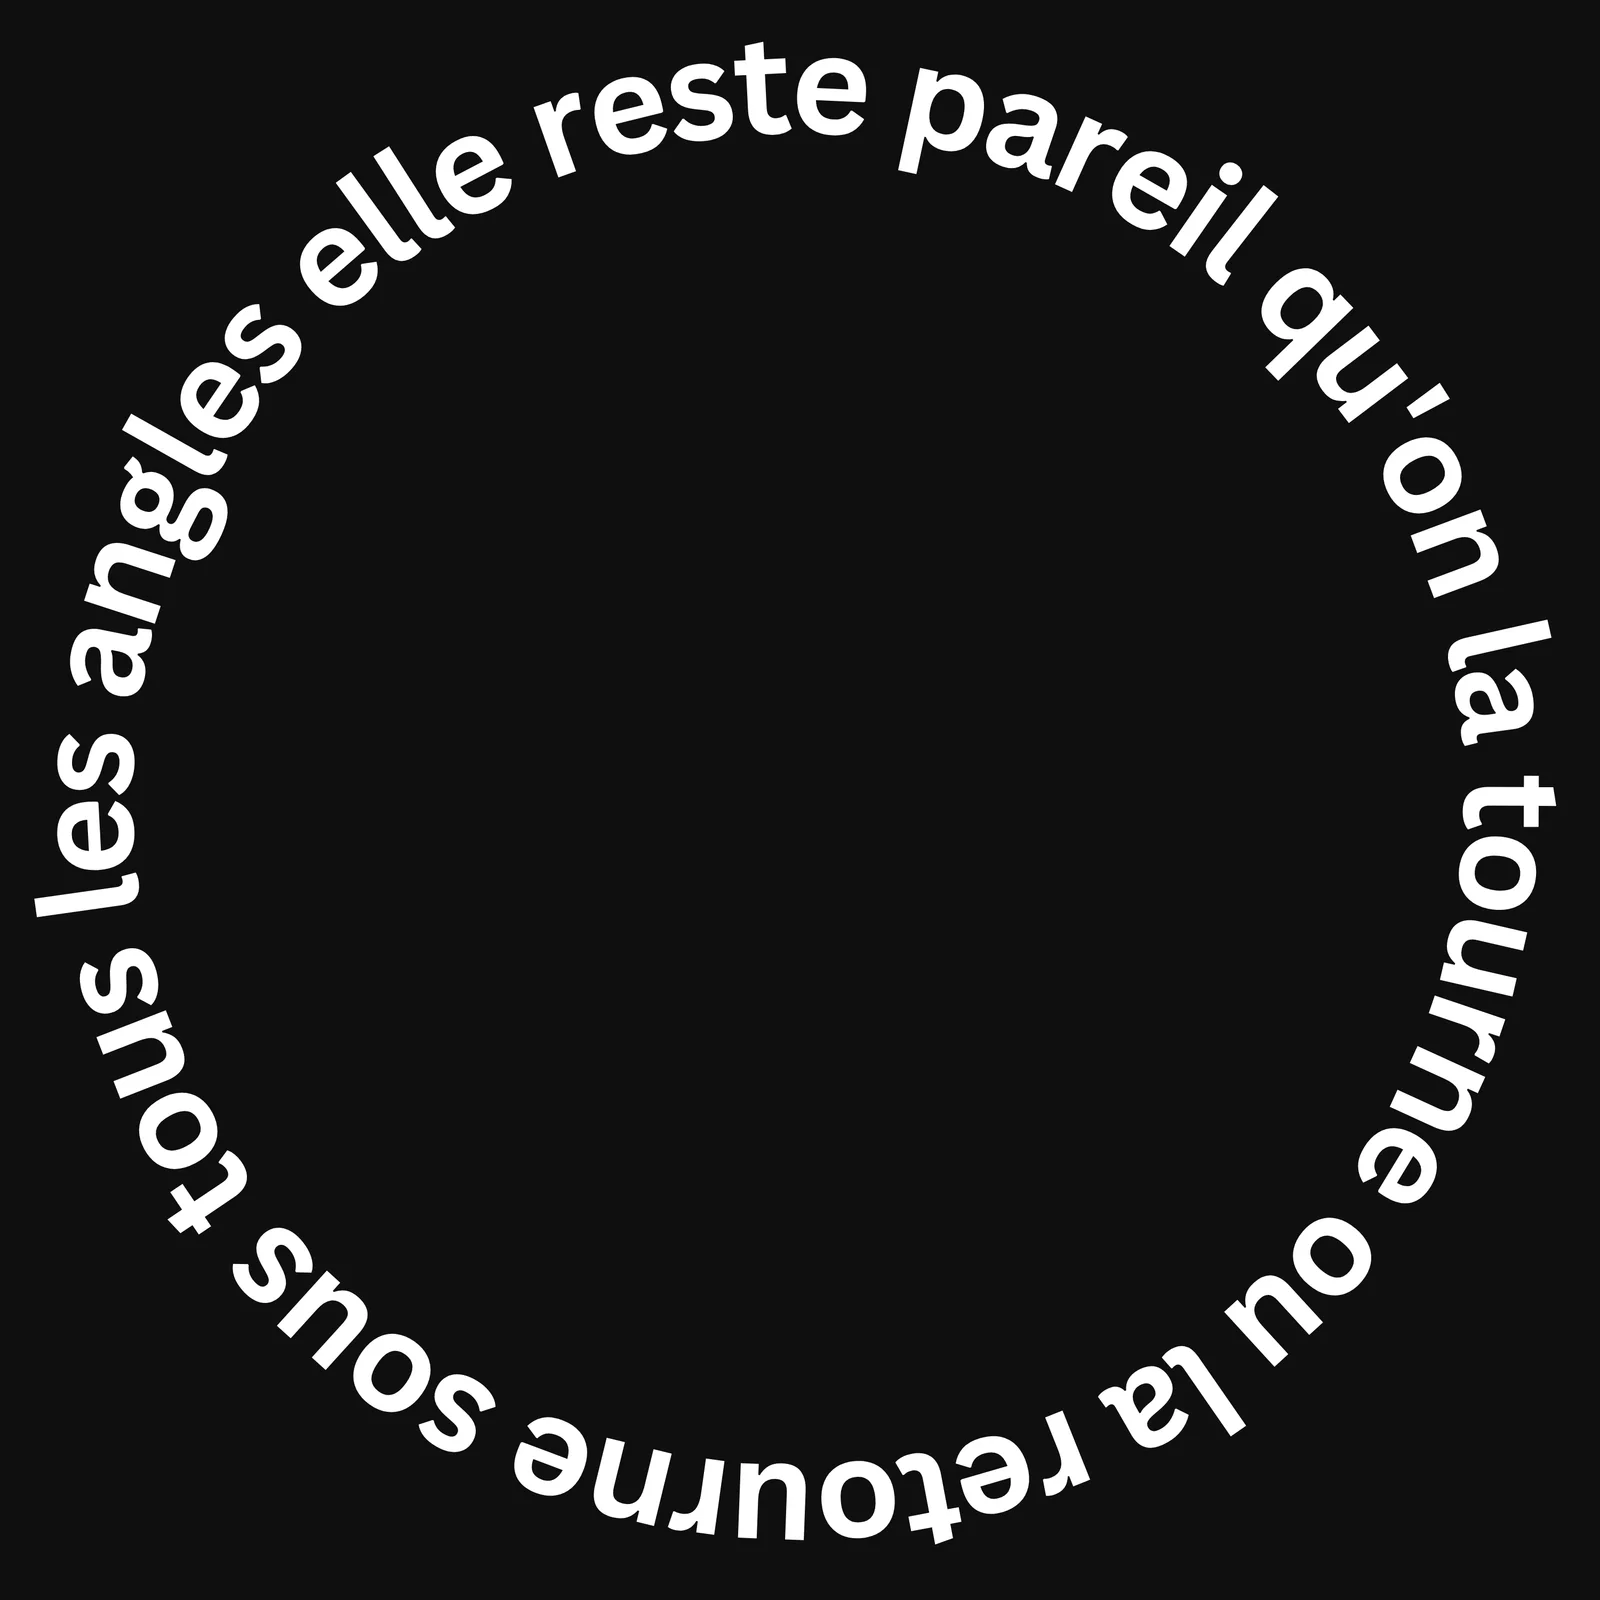
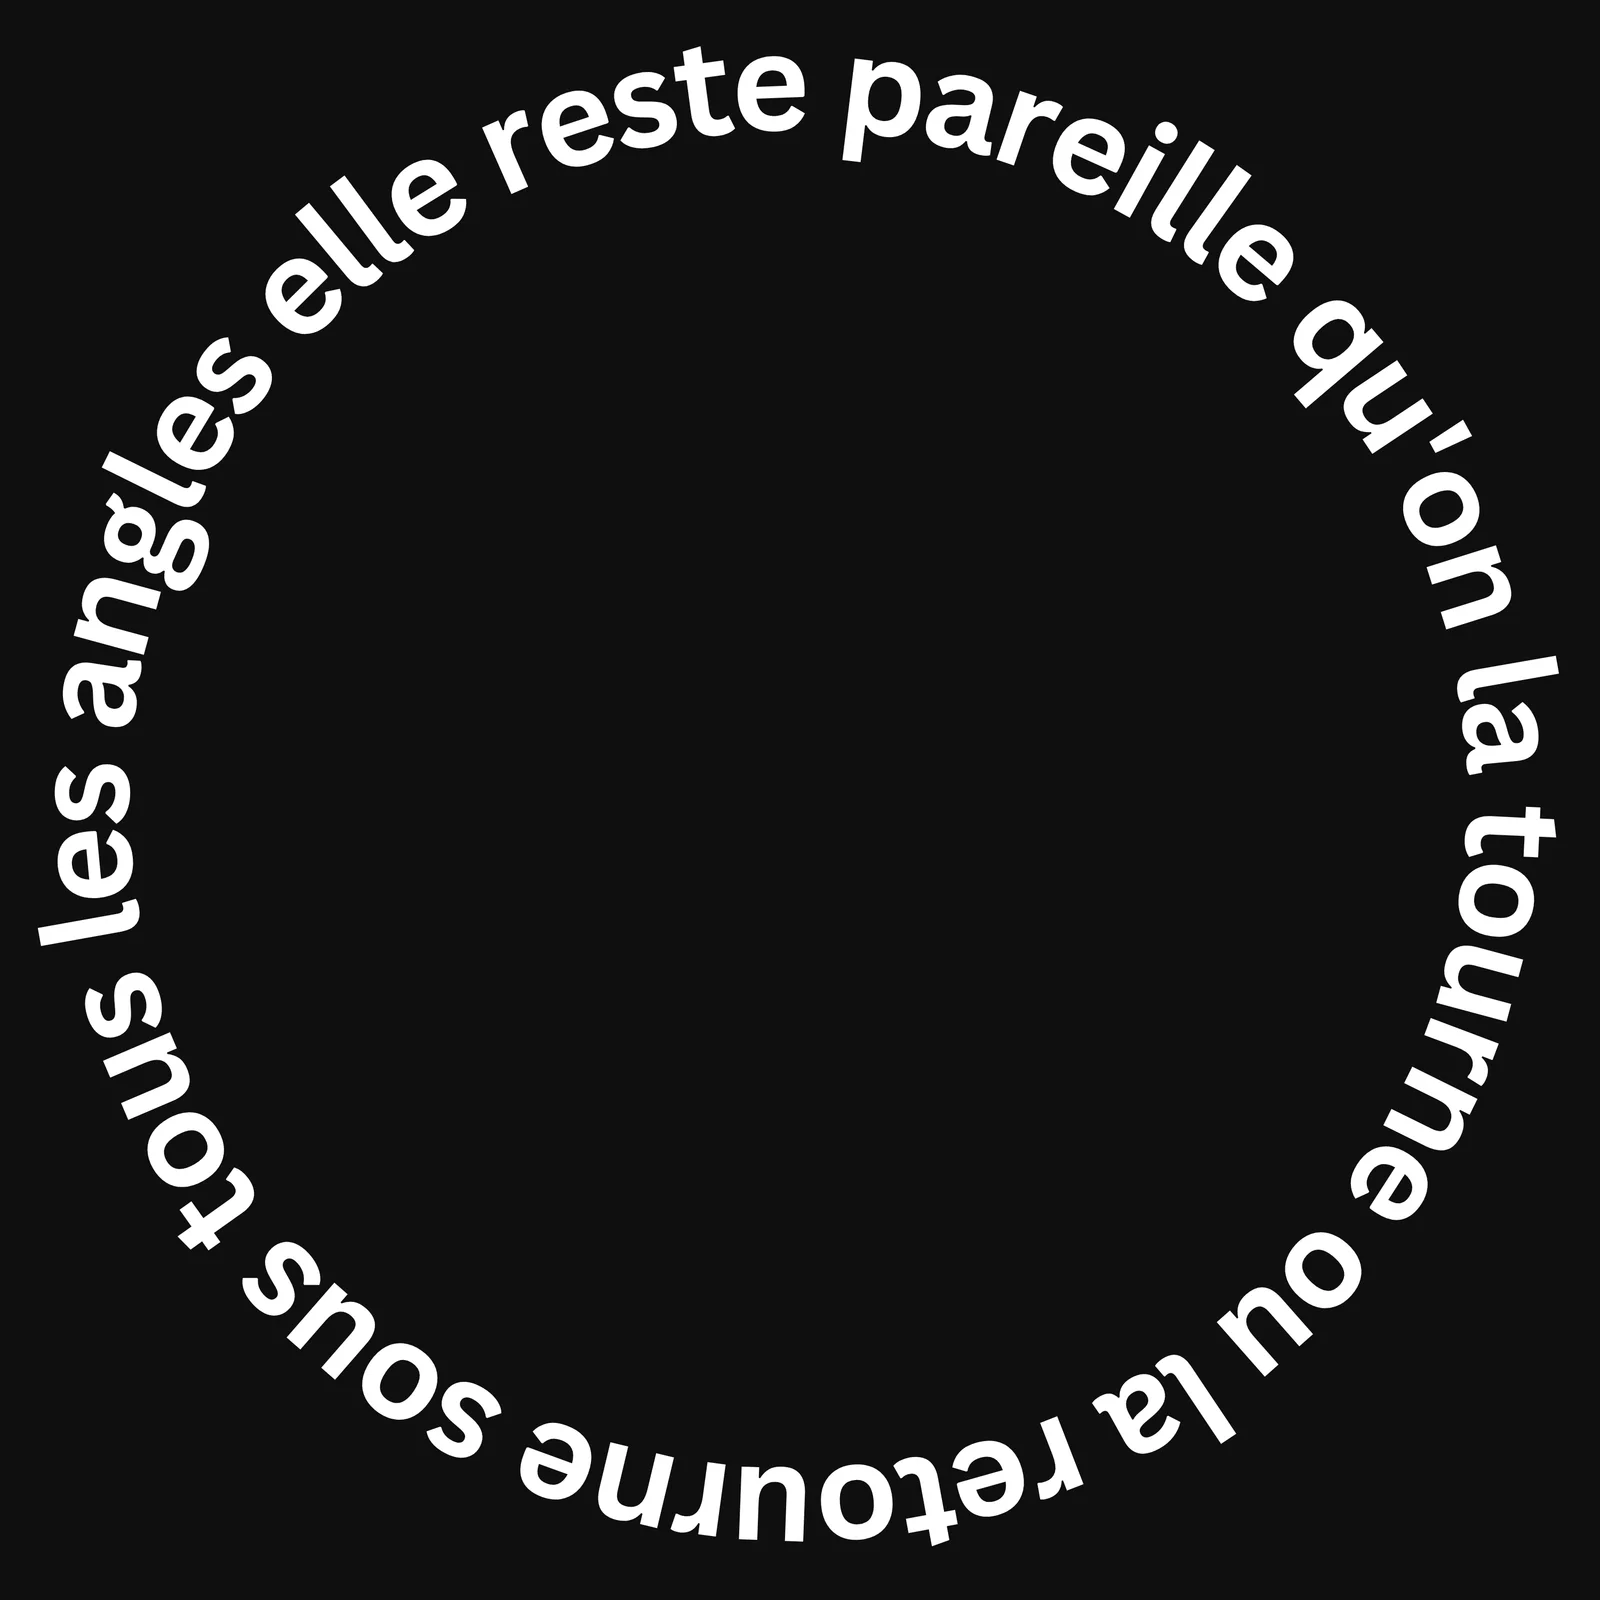
Corrections to poems
Corrected a spelling mistake in the french U1 poem, changed the fusion poem, its translation, its image and the translator

Changed region(s): [[0.0, 0.0312, 0.9688, 0.9688], [0.5, 0.9375, 0.5312, 0.9688]]

diff --git a/js/db.js b/js/db.js
@@ -766,55 +766,75 @@ De son tunnel, il avait agité sa main
 Pour qu’elle le rejoigne au lendemain 
 Electron libre perdu dans un brouillard sans aile 
 Sans phare pour percer un trou du ciel 
-Il avait ancré son cœur et magnétisé 
-D’une flèche toute la mer illuminée 
 
+Du bord au large le plasma mirage traversa
+
+Il avait ancré son cœur magnétique de verre
+D’une flèche illuminée toute la mer
 A la dérive pour un arc-en-ciel ionisé 
+D’électrochocs à l’âme l’effraction pénétrée 
+
+Céleste solaire au récif terre émergea 
 
 L’accès par la passe en S au contour des flots
 Siffla sur son vaisseau
-La collision nucléaire, la fission du mat
+La collision chaleur à la fission du mat
 D’une voix le brisa
 
-Céleste solaire au récif terre émergea
+Céleste solaire au nadir rouge s’envola
 
 Au-delà d’elle, il avait louvoyé sans fin
 Pour qu’elle lui témoigne sous toile de lin
 Sa chaleur sous atmosphère son trait d’art pêle-mêle
-Le cap, ses couleurs, ses ondes charnelles
+Le cap sur ses couleurs et ses ondes charnelles
+
+Céleste lionne au plasma brûlant renaîtra 
+
 Il avait lié cœur contre elle entre ses mains 
 Ejecté raies dans les airs marins 
+Sous les bombes au climat d’énergie chaotique 
+Céleste crie sur l’hélice amniotique
 
-Cent mille un dugong né de l’énergie du grain`,
-    "translatedText":`The way back to meanders by the waters' attraction
-To the core from the constellations
-Echoed through the depths of its magma
-When rammed a gondola
+Cent mille un dugong né de l’énergie du grain `,
+    "translatedText":`The return to the meander through the attraction of the waters
+From the stars to the nucleus
+Echoed in the depths of its magma
+When a boat struck 
 
-From coast to open sea will be reborned the mirage-plasma
+From shore to open sea, the plasma mirage will be reborn
 
-From his tunnel, with his hand he gestured
-So she could join him afterward
-Free electron lost in a mist without wing
-Without lighthouse to pierce a hole of the welkin
-He had anchored his heart and magnetized
-With one arrow all of the sea illuminated
+From his tunnel, he had waved his hand
+So that she could join him the day after
+Free electron lost in a wingless mist
+Without lighthouse to pierce a hole of the sky
 
-Adrift for a rainbow that had been ionized 
+From the shore to the open sea, the mirage plasma crossed
 
-The access through the S-shaped pass at the tide's edge
-Hissed against his barge
-The nuclear collision, the mast's fission
-broke him with a single expression
+He had anchored his magnetic heart of glass
+With an arrow illuminating the whole sea,
+Drifting for an ionized rainbow
+With electroshocks penetrating the soul
 
-Solar celestial at the earth reef made an apparition
+Céleste solar at the reef earth emerged
 
-Beyond her he had tacked again and again
-So she might profess under cloth of linen
-Her heat under atmosphere her art stroke accidental
-The heading, her colours, her waves carnal
+The access through the passe en S at the contour of the waves
+Hissed against his vessel
+The nuclear collision at the fission of the mast
+In a voice shattered it
+
+Céleste solar at the red nadir took flight
+
+Beyond her, he had tacked endlessly
+So she might testify under linen canvas
+Her heat under atmosphere her jumbled art stroke
+Focusing on her colors and her sensual energy
+
+Céleste lioness with burning plasma will be reborn
+
 He had bound heart against her within his hands
-Into the sea airs ejected strands
+Ejected rays into the marine air
+Under the bombs in the chaotic energy climate
+Céleste cries out on the amniotic helix
 
 One hundred thousand and one dugongs born from the energy of the grain`,
     "isImage": false,
@@ -826,7 +846,7 @@ One hundred thousand and one dugongs born from the energy of the grain`,
     "wikipedia":"https://fr.wikipedia.org/wiki/Fusion_nucl%C3%A9aire",
     "translatedWikipedia":"https://en.wikipedia.org/wiki/Nuclear_fusion",
     "author":"Stéphanie Nguyen",
-    "translator":"Léo Buisine",
+    "translator":"Stéphanie Nguyen, Léo Buisine",
     "id":"fusion",
     "edges":[]
 },
